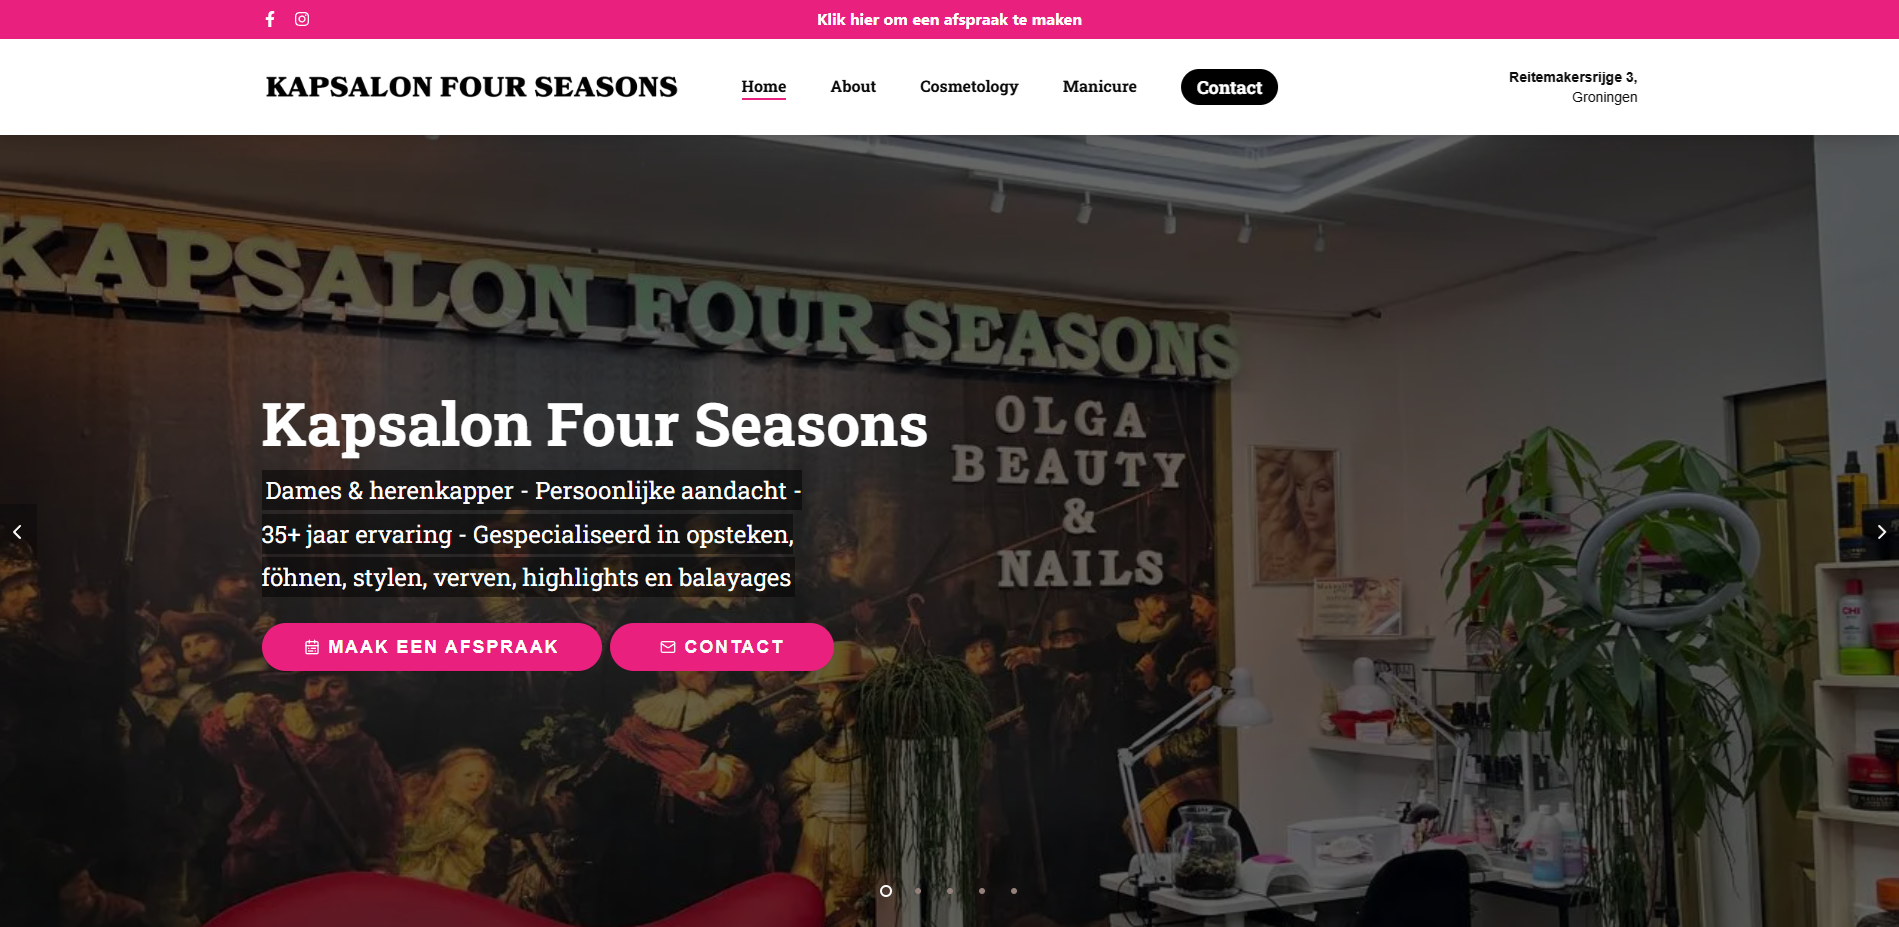
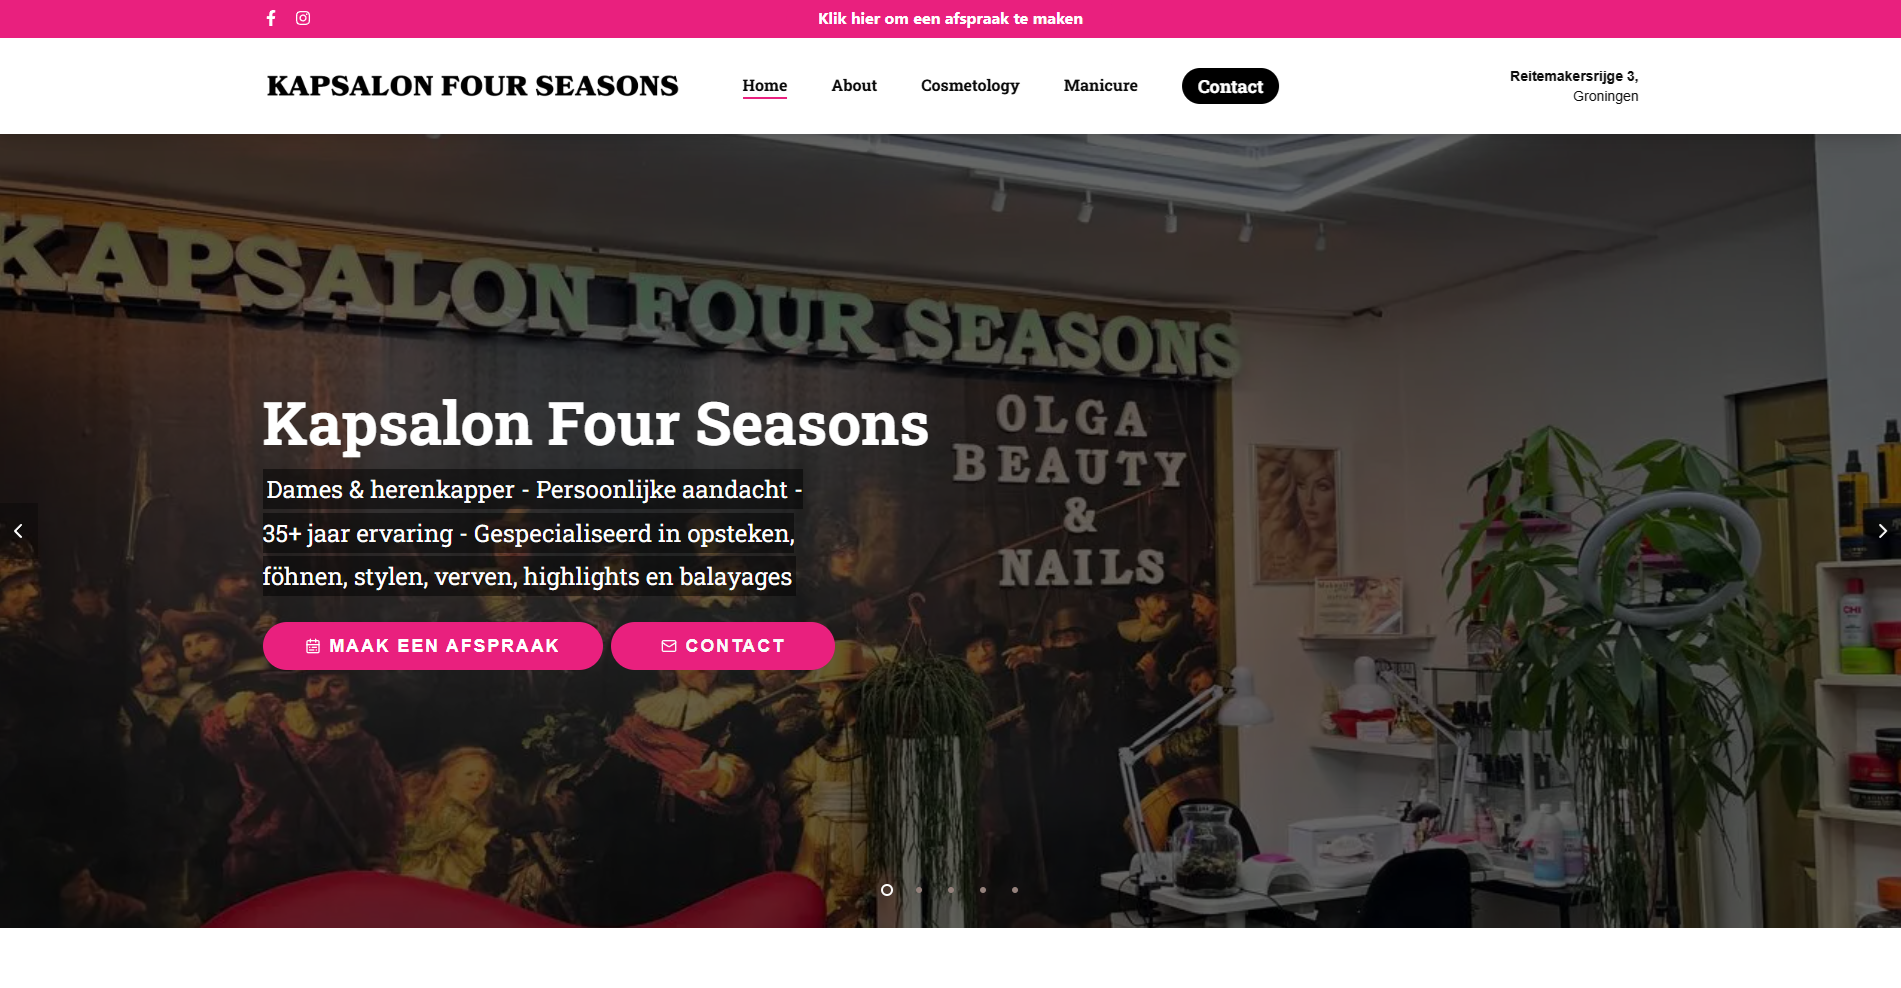
new commit

diff --git a/src/app/four_seasons/page.tsx b/src/app/four_seasons/page.tsx
@@ -28,7 +28,7 @@ const FourSeasons = () => {
   return (
     <>
       <div className="flex flex-col bg-[#fffffb]">
-        <div className="relative w-full min-h-[50vh] max-h-[17vh] md:min-h-[80vh] overflow-hidden">
+        <div className="relative w-full min-h-[50vh] max-h-[17vh] md:min-h-[100vh] overflow-hidden">
           <Image
             src={heroImage}
             alt="Four Seasons Hero"
